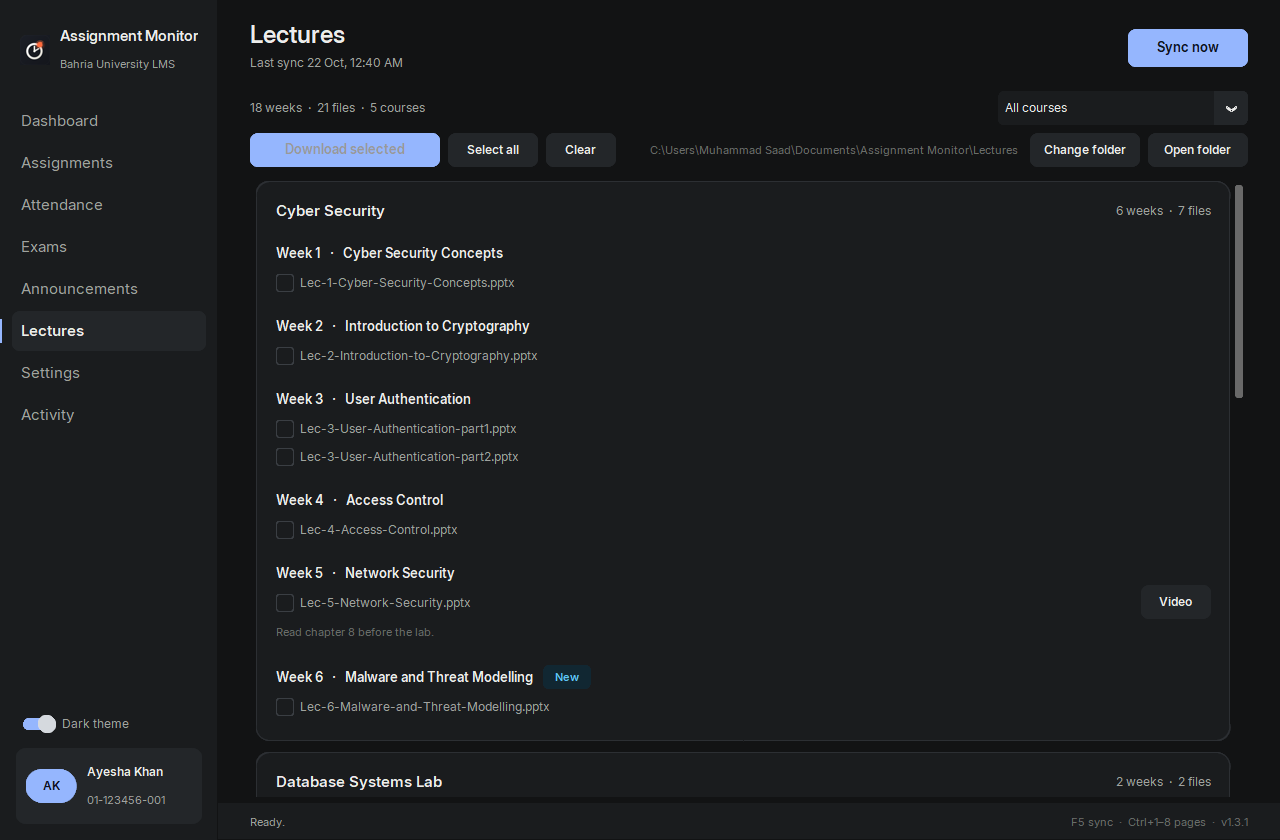
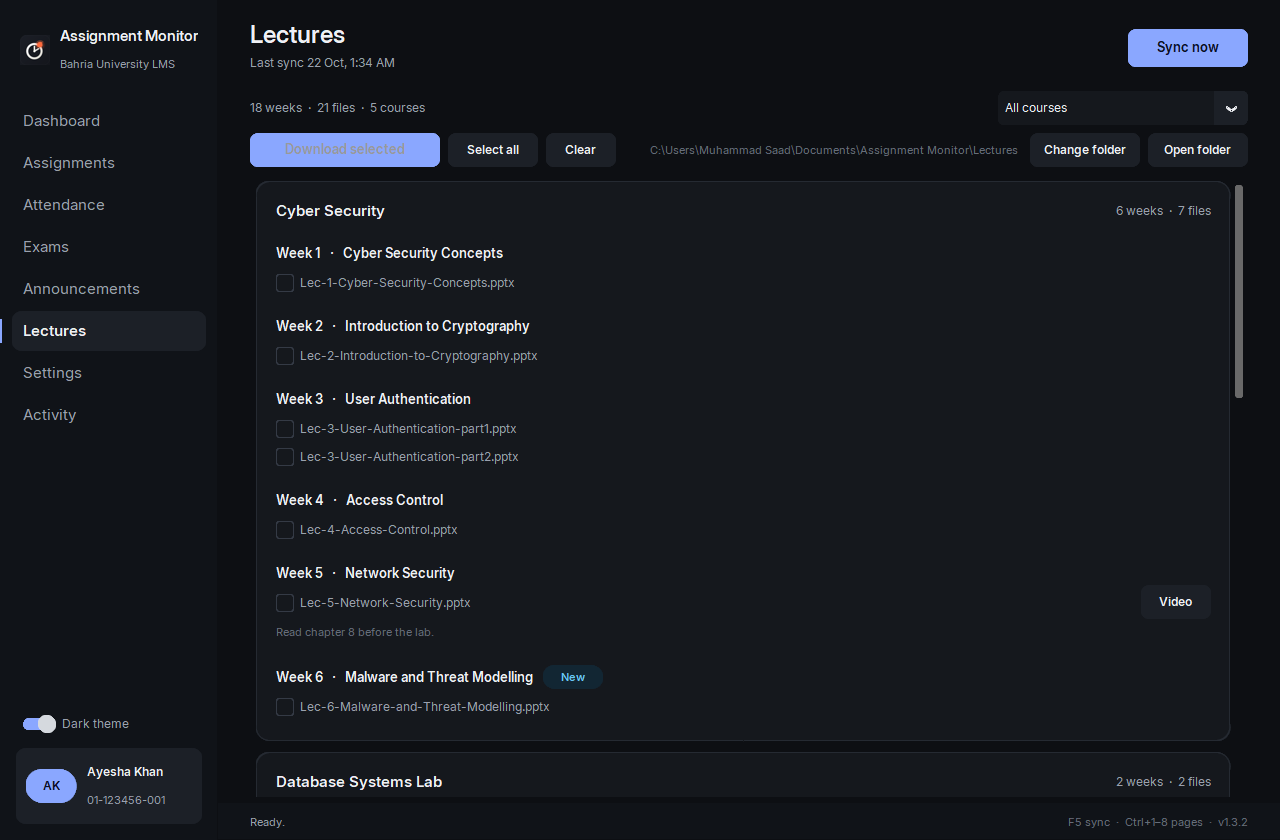
1.3.2: new colour scheme in both themes (cool slate neutrals, indigo accent, calmer state colours, sidebar and status bar a shade off the page, rounded pills). Website: features become an auto-rotating coverflow wheel (Swiper) that spins on swipe, arrows, dots and keyboard; tour spotlight positioned

diff --git a/website/src/styles/sections.css b/website/src/styles/sections.css
@@ -6,7 +6,7 @@
   -webkit-mask-image: linear-gradient(to bottom, #000 50%, transparent 82%); mask-image: linear-gradient(to bottom, #000 50%, transparent 82%); }   /* fades out well above the planet's limb */
 .hero-stack { display: flex; flex-direction: column; align-items: center; }
 .hero h1 { font-size: var(--h-hero); margin: 22px 0 22px; max-width: 15ch; }
-.hero h1 .w { display: inline-block; overflow: hidden; vertical-align: bottom; padding: 0 0.03em; margin: 0 0.09em; }
+.hero h1 .w { display: inline-block; overflow: hidden; vertical-align: bottom; padding: 0.04em 0.03em 0.18em; margin: -0.04em 0.09em -0.18em; }
 .hero h1 .w > span { display: inline-block; }
 .hero .lede { margin: 0 auto; max-width: 62ch; color: var(--ink-2); }
 .hero-cta { display: flex; gap: 12px; flex-wrap: wrap; justify-content: center; margin-top: 32px; }
@@ -43,7 +43,8 @@
 .story-head h2 { margin-top: 14px; }
 .story-grid { display: grid; grid-template-columns: minmax(0, 1.25fr) minmax(320px, 0.9fr); gap: 56px; align-items: center; padding: 28px; border-radius: var(--r-4); background: var(--glass); border: 1px solid var(--line); }
 .story-visual { max-width: min(100%, calc(60vh * 1.524)); }
-.story-visual .shot { position: relative; }
+.story-visual .shot-body { position: relative; line-height: 0; }
+.story-visual .shot-body img { display: block; width: 100%; height: auto; }
 .story-visual .spot { position: absolute; left: var(--sx); top: var(--sy); width: var(--sw); height: var(--sh); border-radius: 10px; border: 1px solid var(--accent);
   box-shadow: 0 0 0 9999px rgba(10, 10, 11, 0.74), 0 0 30px var(--accent-a4); pointer-events: none;
   transition: left 0.7s var(--ease-std), top 0.7s var(--ease-std), width 0.7s var(--ease-std), height 0.7s var(--ease-std); }
@@ -75,25 +76,24 @@
 }
 
 /* ============================================================ features */
-/* features carousel: native scroll-snap track, arrows + dots, three cards per view on desktop */
+/* features wheel: Swiper coverflow, auto-rotating, free to swipe; the active card sits front and centre */
 .feat-head { display: flex; align-items: flex-end; justify-content: space-between; gap: 24px; }
 .feat-head .section-head { margin-bottom: 0; }
 .feat-nav { display: flex; gap: 8px; flex: none; margin-bottom: 6px; }
-.feat-nav[aria-hidden="true"] { visibility: hidden; }
-.feat-arrow { width: 44px; height: 44px; border-radius: 50%; border: 1px solid var(--line-2); color: var(--ink-1); display: grid; place-items: center; background: var(--glass); transition: border-color var(--d-1), background var(--d-1), opacity var(--d-1), transform var(--d-2) var(--ease-out); }
+.feat-arrow { width: 44px; height: 44px; border-radius: 50%; border: 1px solid var(--line-2); color: var(--ink-1); display: grid; place-items: center; background: var(--glass); transition: border-color var(--d-1), background var(--d-1), transform var(--d-2) var(--ease-out); }
 .feat-arrow svg { width: 18px; height: 18px; }
-.feat-arrow:hover:not(:disabled) { border-color: var(--line-3); background: var(--glass-2); transform: translateY(-1px); }
-.feat-arrow:disabled { opacity: 0.35; cursor: default; }
-.feat-track { display: flex; gap: 14px; overflow-x: auto; scroll-snap-type: x mandatory; scroll-padding: 0; padding: 26px 2px 14px; margin: 0 -2px; scrollbar-width: none; -webkit-overflow-scrolling: touch; outline: none; }
-.feat-track::-webkit-scrollbar { display: none; }
-.feat-track:focus-visible { outline: 2px solid var(--focus); outline-offset: 6px; border-radius: 18px; }
-.feat-dots { display: flex; justify-content: center; gap: 4px; margin-top: 6px; }
-.feat-dots button { position: relative; width: 36px; height: 36px; }
-.feat-dots button::after { content: ""; position: absolute; left: 50%; top: 50%; width: 8px; height: 8px; transform: translate(-50%, -50%); border-radius: 4px; background: var(--line-3); transition: width var(--d-2) var(--ease-out), background var(--d-2); }
-.feat-dots button[aria-selected="true"]::after { width: 26px; background: var(--accent); }
-.card { position: relative; flex: 0 0 calc((100% - 28px) / 3); scroll-snap-align: start; padding: 32px 28px 34px; background: var(--glass); border: 1px solid var(--line); border-radius: 18px; overflow: hidden; display: flex; flex-direction: column;
-  transition: background var(--d-2), border-color var(--d-2), transform var(--d-2) var(--ease-out), box-shadow var(--d-2); }
-.card:hover { border-color: var(--line-2); transform: translateY(-4px); box-shadow: var(--shadow-1); }
+.feat-arrow:hover { border-color: var(--line-3); background: var(--glass-2); transform: translateY(-1px); }
+.feat-wheel { padding: 30px 0 10px; overflow: hidden; }
+.feat-wheel .swiper { overflow: visible; padding: 10px 0 18px; }
+.feat-wheel .swiper-slide { width: min(392px, 84vw); height: auto; display: flex; }
+.feat-wheel .swiper-slide .card { width: 100%; opacity: 0.55; transition: opacity 0.6s var(--ease-std), border-color var(--d-2), background var(--d-2); }
+.feat-wheel .swiper-slide-active .card { opacity: 1; border-color: var(--line-2); }
+.feat-wheel .swiper-slide-prev .card, .feat-wheel .swiper-slide-next .card { opacity: 0.8; }
+.feat-dots { display: flex; justify-content: center; gap: 2px; margin-top: 4px; }
+.feat-dots button { position: relative; width: 34px; height: 34px; }
+.feat-dots button::after { content: ""; position: absolute; left: 50%; top: 50%; width: 7px; height: 7px; transform: translate(-50%, -50%); border-radius: 4px; background: var(--line-3); transition: width var(--d-2) var(--ease-out), background var(--d-2); }
+.feat-dots button[aria-selected="true"]::after { width: 22px; background: var(--accent); }
+.card { position: relative; padding: 32px 28px 34px; background: var(--glass); border: 1px solid var(--line); border-radius: 18px; overflow: hidden; display: flex; flex-direction: column; }
 .card::after { content: ""; position: absolute; inset: 0; pointer-events: none; opacity: 0; transition: opacity var(--d-2); background: radial-gradient(260px 200px at var(--mx, 50%) var(--my, 50%), var(--accent-a3), transparent 70%); }
 .card:hover { background: var(--glass-2); }
 .card:hover::after { opacity: 1; }
@@ -106,8 +106,7 @@
 .card ul { margin: 18px 0 0; padding: 0; list-style: none; font-size: var(--t-sm); }
 .card ul li { display: flex; justify-content: space-between; gap: 12px; padding: 9px 0; border-top: 1px solid var(--line); }
 .card ul li span { font-family: var(--mono); font-size: var(--t-2xs); color: var(--ink-3); letter-spacing: 0.04em; }
-@media (max-width: 980px) { .card { flex-basis: calc((100% - 14px) / 2); } }
-@media (max-width: 600px) { .feat-head { flex-direction: column; align-items: flex-start; } .card { flex-basis: 86%; padding: 26px 22px 28px; } .card .mono { margin-bottom: 26px; } .feat-track { padding-top: 18px; } }
+@media (max-width: 600px) { .feat-head { flex-direction: column; align-items: flex-start; } .card { padding: 26px 22px 28px; } .card .mono { margin-bottom: 26px; } .feat-wheel { padding-top: 18px; } .feat-dots button { width: 28px; } }
 
 /* ============================================================ steps */
 .steps { position: relative; display: grid; grid-template-columns: repeat(3, 1fr); gap: 24px; }

diff --git a/website/src/components/home/Features.jsx b/website/src/components/home/Features.jsx
@@ -1,73 +1,66 @@
-import React, { useCallback, useEffect, useRef, useState } from "react";
-import { motion } from "framer-motion";
+import React, { useRef, useState } from "react";
+import { Swiper, SwiperSlide } from "swiper/react";
+import { A11y, Autoplay, EffectCoverflow, Keyboard } from "swiper/modules";
+import "swiper/css";
+import "swiper/css/effect-coverflow";
 import { SectionHead } from "../Reveal.jsx";
 import { FEATURES } from "../../data/content.js";
 import { coarsePointer } from "../../lib/scroll.jsx";
-import { EASE } from "../../lib/motion.js";
 
-/* Ten features in a carousel instead of a ten-card wall: three cards per view on desktop, two on tablets, one and a
-   bit on phones. Native scroll-snap does the swiping; the arrows, dots and keyboard do the rest. */
-function Card({ f, i }) {
+/* Ten features on a wheel: a Swiper coverflow that turns by itself every few seconds, pauses under the pointer,
+   and spins with a swipe, the arrows, the dots or the keyboard. Reduced-motion users get a still wheel. */
+const reduced = () => typeof window !== "undefined" && window.matchMedia("(prefers-reduced-motion: reduce)").matches;
+
+function Card({ f }) {
   const onMove = (e) => {
     if (coarsePointer()) return;
     const r = e.currentTarget.getBoundingClientRect();
     e.currentTarget.style.setProperty("--mx", `${e.clientX - r.left}px`); e.currentTarget.style.setProperty("--my", `${e.clientY - r.top}px`);
   };
   return (
-    <motion.article className="card" onPointerMove={onMove} initial={{ opacity: 0, y: 22 }} whileInView={{ opacity: 1, y: 0 }}
-      viewport={{ once: true, amount: 0.3 }} transition={{ duration: 0.7, ease: EASE, delay: (i % 3) * 0.07 }}>
+    <article className="card" onPointerMove={onMove}>
       <p className="mono">{f.n} · {f.tag}</p>
       <h3>{f.title}</h3>
       <p>{f.text}</p>
       {f.datestr && <div className="datestr"><span className="now">{f.datestr.now}</span><s>{f.datestr.was}</s></div>}
       {f.list && <ul>{f.list.map(([k, v]) => <li key={k}>{k} <span>{v}</span></li>)}</ul>}
-    </motion.article>
+    </article>
   );
 }
 
 export default function Features() {
-  const track = useRef(null);
-  const [page, setPage] = useState(0);
-  const [pages, setPages] = useState(1);
-
-  const measure = useCallback(() => {
-    const el = track.current; if (!el) return;
-    const max = el.scrollWidth - el.clientWidth;
-    const n = Math.max(1, Math.ceil(el.scrollWidth / el.clientWidth - 0.02));
-    setPages(n);
-    setPage(el.scrollLeft >= max - 2 ? n - 1 : Math.min(n - 1, Math.round(el.scrollLeft / el.clientWidth)));
-  }, []);
-  useEffect(() => {
-    measure();
-    const el = track.current;
-    el.addEventListener("scroll", measure, { passive: true });
-    window.addEventListener("resize", measure);
-    return () => { el.removeEventListener("scroll", measure); window.removeEventListener("resize", measure); };
-  }, [measure]);
-  const go = (p) => { const el = track.current; if (!el) return; el.scrollTo({ left: Math.max(0, Math.min(pages - 1, p)) * el.clientWidth, behavior: "smooth" }); };
-  const onKey = (e) => { if (e.key === "ArrowRight") { e.preventDefault(); go(page + 1); } if (e.key === "ArrowLeft") { e.preventDefault(); go(page - 1); } };
-
+  const swiper = useRef(null);
+  const [idx, setIdx] = useState(0);
+  const auto = !reduced();
   return (
     <section id="features">
       <div className="wrap">
         <div className="feat-head">
           <SectionHead kicker="What it does" title={<>Small tool. <span className="heading-accent">Does the boring part.</span></>}
             lede="It does on your PC exactly what you would do by hand in a browser, on a schedule, and tells you only what matters." />
-          <div className="feat-nav" aria-hidden={pages <= 1}>
-            <button type="button" className="feat-arrow" onClick={() => go(page - 1)} disabled={page === 0} aria-label="Previous features">
+          <div className="feat-nav">
+            <button type="button" className="feat-arrow" onClick={() => swiper.current?.slidePrev()} aria-label="Previous feature">
               <svg viewBox="0 0 24 24" fill="none" stroke="currentColor" strokeWidth="2" strokeLinecap="round" strokeLinejoin="round"><path d="M15 6l-6 6 6 6" /></svg>
             </button>
-            <button type="button" className="feat-arrow" onClick={() => go(page + 1)} disabled={page >= pages - 1} aria-label="Next features">
+            <button type="button" className="feat-arrow" onClick={() => swiper.current?.slideNext()} aria-label="Next feature">
               <svg viewBox="0 0 24 24" fill="none" stroke="currentColor" strokeWidth="2" strokeLinecap="round" strokeLinejoin="round"><path d="M9 6l6 6-6 6" /></svg>
             </button>
           </div>
         </div>
-        <div className="feat-track" ref={track} tabIndex={0} onKeyDown={onKey} role="region" aria-label="Features, swipe or use the arrow keys">
-          {FEATURES.map((f, i) => <Card f={f} i={i} key={f.n} />)}
-        </div>
-        <div className="feat-dots" role="tablist" aria-label="Feature pages">
-          {Array.from({ length: pages }, (_, i) => (
-            <button key={i} type="button" role="tab" aria-selected={i === page} aria-label={`Page ${i + 1}`} onClick={() => go(i)} />
+      </div>
+      <div className="feat-wheel" aria-roledescription="carousel" aria-label="Features">
+        <Swiper modules={[A11y, Autoplay, EffectCoverflow, Keyboard]} effect="coverflow" centeredSlides loop grabCursor slidesPerView="auto"
+          speed={850} spaceBetween={18} coverflowEffect={{ rotate: 24, stretch: 0, depth: 150, modifier: 1, scale: 0.94, slideShadows: false }}
+          autoplay={auto ? { delay: 3400, disableOnInteraction: false, pauseOnMouseEnter: true } : false}
+          keyboard={{ enabled: true }} a11y={{ enabled: true }}
+          onSwiper={(s) => { swiper.current = s; }} onSlideChange={(s) => setIdx(s.realIndex)}>
+          {FEATURES.map((f) => <SwiperSlide key={f.n}><Card f={f} /></SwiperSlide>)}
+        </Swiper>
+      </div>
+      <div className="wrap">
+        <div className="feat-dots" role="tablist" aria-label="Feature">
+          {FEATURES.map((f, i) => (
+            <button key={f.n} type="button" role="tab" aria-selected={i === idx} aria-label={f.title} onClick={() => swiper.current?.slideToLoop(i)} />
           ))}
         </div>
       </div>

diff --git a/website/src/components/home/Tour.jsx b/website/src/components/home/Tour.jsx
@@ -2,7 +2,7 @@ import React, { useEffect, useRef, useState } from "react";
 import { gsap, ScrollTrigger, useScroll, reduceMotion } from "../../lib/scroll.jsx";
 import { useScene } from "../../lib/scene.jsx";
 import { Window } from "../Reveal.jsx";
-import { TOUR } from "../../data/content.js";
+import { TOUR, shot } from "../../data/content.js";
 
 /* Pinned walkthrough: the dashboard stays put while four short scroll steps move a spotlight over it and swap the
    caption. Desktop only; on narrow screens the steps simply stack under the screenshot. */
@@ -48,9 +48,11 @@ export default function Tour() {
           <div className="story-grid">
             <div className="story-visual">
               <Window title="Dashboard" className="shot">
-                <img src="/assets/shot-dashboard-light.png" alt="The dashboard in the light theme" width="1280" height="840" loading="lazy" />
-                <div className="spot" style={{ "--sx": `${sx}%`, "--sy": `${sy}%`, "--sw": `${sw}%`, "--sh": `${sh}%` }} />
-                <span className="spot-label" style={{ "--sx": `${sx}%`, "--sy": `${sy}%` }}>{step.label}</span>
+                <div className="shot-body">
+                  <img src={shot("dashboard", "light")} alt="The dashboard in the light theme" width="1280" height="840" loading="lazy" />
+                  <div className="spot" style={{ "--sx": `${sx}%`, "--sy": `${sy}%`, "--sw": `${sw}%`, "--sh": `${sh}%` }} />
+                  <span className="spot-label" style={{ "--sx": `${sx}%`, "--sy": `${sy}%` }}>{step.label}</span>
+                </div>
               </Window>
             </div>
             <div className="story-side">

diff --git a/website/src/components/Nav.jsx b/website/src/components/Nav.jsx
@@ -40,7 +40,7 @@ export default function Nav() {
   return (
     <motion.header className={`nav${scrolled || open ? " is-scrolled" : ""}`} initial={{ y: -16, opacity: 0 }} animate={introDone ? { y: 0, opacity: 1 } : {}} transition={{ duration: 1, ease: EASE, delay: 0.5 }}>
       <div className="wrap">
-        <Link className="brand" to="/" aria-label="Assignment Monitor home" onClick={() => setOpen(false)}>
+        <Link className="brand" to="/" aria-label="Assignment Monitor home" onClick={(e) => { setOpen(false); if (window.location.pathname === "/") { e.preventDefault(); if (window.__lenis) window.__lenis.scrollTo(0, { duration: 1.1 }); else window.scrollTo({ top: 0, behavior: "smooth" }); window.history.replaceState(null, "", "/"); } }}>
           <img src="/assets/logo.svg?v=2" alt="" width="28" height="28" />
           <span>Assignment Monitor<small>for Bahria University LMS</small></span>
         </Link>

diff --git a/website/src/components/home/TourMobile.jsx b/website/src/components/home/TourMobile.jsx
@@ -1,5 +1,5 @@
 import React, { useEffect, useRef, useState } from "react";
-import { TOUR } from "../../data/content.js";
+import { TOUR, shot } from "../../data/content.js";
 
 const SHOT = { w: 1280, h: 840 };
 const BOX = 1.6;   // the crop window's aspect ratio (width / height)
@@ -12,7 +12,7 @@ function Crop({ spot }) {
   const widthPct = spotAspect >= BOX ? 9000 / w : (9000 * SHOT.w) / (SHOT.h * BOX * h);   // 10 % breathing room
   return (
     <div className="tour-m-crop" aria-hidden="true">
-      <img src="/assets/shot-dashboard-light.png" alt="" width={SHOT.w} height={SHOT.h} loading="lazy"
+      <img src={shot("dashboard", "light")} alt="" width={SHOT.w} height={SHOT.h} loading="lazy"
         style={{ width: `${widthPct}%`, transform: `translate(-${x + w / 2}%, -${y + h / 2}%)` }} />
     </div>
   );

diff --git a/website/src/components/home/Gallery.jsx b/website/src/components/home/Gallery.jsx
@@ -1,7 +1,7 @@
 import React, { useState } from "react";
 import { motion, AnimatePresence } from "framer-motion";
 import { SectionHead, Reveal, Window } from "../Reveal.jsx";
-import { SCREENS } from "../../data/content.js";
+import { SCREENS, shot } from "../../data/content.js";
 
 function Seg({ label, options, value, onChange }) {
   return (
@@ -19,7 +19,7 @@ function Seg({ label, options, value, onChange }) {
 export default function Gallery() {
   const [screen, setScreen] = useState("dashboard");
   const [theme, setTheme] = useState("dark");
-  const src = `/assets/shot-${screen}-${theme}.png`;
+  const src = shot(screen, theme);
   const current = SCREENS.find((s) => s.id === screen);
   return (
     <section id="screens">

diff --git a/website/src/data/content.js b/website/src/data/content.js
@@ -53,6 +53,9 @@ export const STEPS = [
   { title: "Let it run", text: "Leave \"Check automatically\" ticked. From then on it checks at 7 PM, after you sign in to Windows, and hourly on due days." },
 ];
 
+export const SHOT_V = "132";
+export const shot = (id, theme) => `/assets/shot-${id}-${theme}.png?v=${SHOT_V}`;
+
 export const SCREENS = [
   { id: "dashboard", label: "Dashboard", caption: "Dashboard: next deadline, counters, attention list, course progress." },
   { id: "attendance", label: "Attendance", caption: "Attendance: every course's hours, the margin to the 75% rule, and the class-by-class record." },

diff --git a/app.py b/app.py
@@ -168,20 +168,21 @@ from jobs import process_sync, collectors_for                                   
 # ---------------------------------------------------------------------------- design tokens
 # Direction: calm and editorial. Warm neutral surfaces, one accent, three type weights (regular, medium, semibold;
 # never bold), hairline dividers instead of nested cards, no decorative icons.
-# Golden ratio, twice: the accent sits at oklch hue 265 (blue) and every other hue is one golden angle (137.5°)
-# further round the wheel, so they are as far apart as colours can be (red 42 · green 180 · violet 317 · amber 95 ·
-# sky 232); and the type scale is 13px × φ^(n/4). Every colour is a (light, dark) pair so the theme switch restyles
-# the live window: inks sit at L≈.50 on the light surfaces and L≈.78 on the dark ones (AA on both), tints are the
-# same hue at L .955 / .26.
+# Colour: cool slate neutrals (a touch of blue in every grey, so the surfaces read as one material) with a single
+# indigo accent, and the five state hues spaced a golden angle (137.5°) apart from it round the wheel so they never
+# clash: red 42 · green 180 · violet 317 · amber 95 · sky 232. Every colour is a (light, dark) pair so the theme switch
+# restyles the live window. Inks sit at L≈.48 on the light surfaces and L≈.80 on the dark ones (AA on both); tints
+# are the same hue at L .96 / .22. "side" is the sidebar and status bar: a shade off the content so the shell
+# frames the page instead of merging with it.
 C = {
-    "bg": ("#f4f4f1", "#121314"), "surface": ("#ffffff", "#1a1c1e"), "surface2": ("#eeeeea", "#232629"),
-    "field": ("#fafaf8", "#202326"), "line": ("#e3e3de", "#2c2f33"), "line2": ("#d6d6d0", "#3a3e43"),
-    "ink": ("#1b1b1a", "#ececea"), "muted": ("#62625e", "#a0a39e"), "dim": ("#9a9a94", "#6a6d69"),
-    "accent": ("#2955d3", "#95b6fe"), "accent_h": ("#1a41be", "#adc7ff"), "on_accent": ("#ffffff", "#0e1320"),
-    "red": ("#af4000", "#fd9a73"), "amber": ("#806a00", "#dec358"), "green": ("#007465", "#36d2ba"),
-    "sky": ("#006c94", "#5dc4f7"), "violet": ("#893ba1", "#d99cee"),
-    "red_t": ("#ffebe4", "#321e16"), "amber_t": ("#f6f0da", "#29240f"), "green_t": ("#dcf7f1", "#0e2a25"),
-    "sky_t": ("#e0f4ff", "#112732"), "violet_t": ("#f9eafe", "#2b1f2f"), "grey_t": ("#eeeeea", "#232629"),
+    "bg": ("#f3f4f7", "#0d0f13"), "surface": ("#ffffff", "#15181d"), "surface2": ("#eceef3", "#1c2027"),
+    "side": ("#f8f9fb", "#101318"), "field": ("#f7f8fb", "#1a1e25"), "line": ("#e3e6ec", "#252a32"), "line2": ("#cfd4de", "#343a45"),
+    "ink": ("#14161b", "#eef0f4"), "muted": ("#5b6170", "#9aa1ad"), "dim": ("#9096a3", "#666d79"),
+    "accent": ("#2f5bea", "#8aa7ff"), "accent_h": ("#2449cc", "#a3baff"), "on_accent": ("#ffffff", "#0b1024"),
+    "red": ("#c2410c", "#ff9b78"), "amber": ("#946200", "#e3c75c"), "green": ("#0f766e", "#4fd6bf"),
+    "sky": ("#0369a1", "#67c6f5"), "violet": ("#7e3fb8", "#d9a3f2"),
+    "red_t": ("#fdeee6", "#33201a"), "amber_t": ("#fbf3dc", "#2a2412"), "green_t": ("#dcf5f0", "#0f2a26"),
+    "sky_t": ("#e0f2fe", "#122633"), "violet_t": ("#f3e8fb", "#2a1f31"), "grey_t": ("#eceef3", "#1c2027"),
 }
 URGENCY = {"today": "red", "missed": "red", "soon": "amber", "week": "sky", "later": "dim",
            "submitted": "green", "unknown": "dim"}
@@ -353,7 +354,7 @@ def pill(parent, text, key_or_color, size=11):
     color = C[URGENCY[key_or_color]] if key_or_color in URGENCY else key_or_color
     tint = urgency_tint(key_or_color) if key_or_color in URGENCY else C["surface2"]
     return ctk.CTkLabel(parent, text=f"  {text}  ", font=F(size, "semibold"), fg_color=tint, text_color=color,
-                        corner_radius=6, height=24)
+                        corner_radius=12, height=24)
 
 
 def surface(parent, hover=False, **kw):
@@ -2048,7 +2049,7 @@ class App(ctk.CTk):
         self.container.grid_columnconfigure(1, weight=1)
         self.container.grid_rowconfigure(0, weight=1)
 
-        side = ctk.CTkFrame(self.container, fg_color=C["surface"], corner_radius=0, width=224)
+        side = ctk.CTkFrame(self.container, fg_color=C["side"], corner_radius=0, width=224)
         side.grid(row=0, column=0, sticky="nsw")
         side.grid_propagate(False)
         ctk.CTkFrame(self.container, fg_color=C["line"], width=1, corner_radius=0).grid(row=0, column=0, sticky="nse")
@@ -2068,7 +2069,7 @@ class App(ctk.CTk):
             item.pack(fill="x", padx=(0, 12), pady=1)
             bar = ctk.CTkFrame(item, fg_color="transparent", width=3, height=2, corner_radius=2)
             bar.pack(side="left", fill="y", pady=8)
-            b = ctk.CTkButton(item, text=label, font=F(LG), height=40, anchor="w", corner_radius=8,
+            b = ctk.CTkButton(item, text=label, font=F(LG), height=40, anchor="w", corner_radius=10,
                               fg_color="transparent", hover_color=C["surface2"], text_color=C["muted"],
                               command=lambda k=key: self.navigate(k))
             b.pack(side="left", fill="x", expand=True, padx=(9, 0))
@@ -2117,7 +2118,7 @@ class App(ctk.CTk):
         self.body = ctk.CTkFrame(content, fg_color="transparent")
         self.body.grid(row=2, column=0, sticky="nsew", padx=32, pady=(6, 0))
 
-        status = ctk.CTkFrame(content, fg_color=C["surface"], corner_radius=0, height=28)
+        status = ctk.CTkFrame(content, fg_color=C["side"], corner_radius=0, height=28)
         status.grid(row=3, column=0, sticky="ew")
         ctk.CTkFrame(status, fg_color=C["line"], height=1, corner_radius=0).pack(fill="x", side="top")
         self.status_lbl = ctk.CTkLabel(status, text="Ready.", font=F(XS), text_color=C["muted"], anchor="w")

diff --git a/config.py b/config.py
@@ -14,7 +14,7 @@ from pathlib import Path
 APP_NAME = "Assignment Monitor"
 TAGLINE = "for Bahria University LMS"
 APP_ID = "Nobody243.AssignmentMonitor"       # Windows AppUserModelID (taskbar grouping / toasts)
-APP_VERSION = "1.3.1"
+APP_VERSION = "1.3.2"
 REPO_URL = "https://github.com/Nobody243/Assignment_Monitor"
 RELEASES_URL = REPO_URL + "/releases/latest"
 

diff --git a/CHANGELOG.md b/CHANGELOG.md
@@ -1,5 +1,9 @@
 # Changelog
 
+## 1.3.2 - 2026-10-22
+
+- New colour scheme in both themes: cool slate greys with a single indigo accent, calmer state colours, and a sidebar and status bar a shade off the page so the shell frames the content. Pills are fully rounded and nav items a little softer.
+
 ## 1.3.1 - 2026-10-22
 
 - Design pass: rounded surfaces that lift on hover, a short slide when switching pages, a fade when switching themes, counters that count up and attendance bars that fill in. All of it can be switched off with the new Animations switch in Settings, Appearance.
